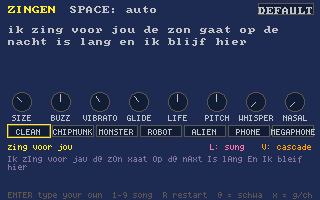
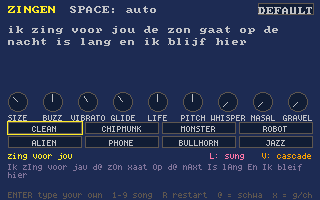
voice: GRAVEL (idx 21) and a sung scoop; zingen gets a GRAVEL knob and a JAZZ character
GRAVEL: every other glottal cycle weaker (diplophonia), occasional dropped
cycles, extra jitter, turbulence at each closure, level make-up; off = other
voice carts byte-identical. lyric.h: singer_gravel and Singer.scoop (a note
after a rest slides up into place). zingen: GRAVEL knob, a JAZZ character (low,
pressed, gravelly, slow wide late vibrato, scoop 2); characters in two rows.

Changed region(s): [[0.0, 0.45, 1.0, 0.9]]

diff --git a/tools/carts/zingen.c b/tools/carts/zingen.c
@@ -10,7 +10,7 @@
   "description": {
     "summary": "The formant voice sings in six languages, and whatever you type: Dutch (read by spelling rules: long and short vowels, schwa, ch/g, ui/ij/eu, final devoicing), Mipomi (the playtime Mipos' language), Japanese romaji, Spanish, Swahili and Hawaiian. One syllable per note, with voice knobs and one-tap characters (chipmunk, monster, robot, alien...).",
     "detail": "lyric.h reads the text into syllables; each note starts the next one: its consonants at note-on, the vowel held while the note is, then the diphthong's second half and the final consonants chained at release ('nacht' = x then t), before the note lets go. The melody is made from the words: a word's last syllable lasts longer, every fourth word breathes. Or play it yourself: every key press sings the next syllable. The bottom line shows the phonemes it read.",
-    "controls": "SPACE = auto-sing on/off · A S D F G H J K = sing the next syllable on that note · 1 2 3 = Dutch lyrics, 4 = a Mipomi lullaby, 5 Japanese, 6 Spanish, 7 Swahili, 8 Hawaiian, 9 = your words · ENTER = type your own line (TAB cycles Dutch, Mipomi, Japanese romaji, Spanish, Swahili, Hawaiian; an apostrophe is the okina), ENTER again to hear it sung (it is remembered) · V = formant model (Klatt cascade / parallel) · knobs: SIZE (giant .. child) · BUZZ (relaxed and round .. pressed and bright; also UP/DOWN) · VIBRATO · GLIDE · LIFE (a machine .. shaky) · PITCH (±12 semitones) · WHISPER (sung → whispered: no pitch, the words stay) · NASAL (open → hummed, through the nose) · characters (one tap): CLEAN, CHIPMUNK, MONSTER, ROBOT, ALIEN, PHONE, MEGAPHONE; each moves the knobs it needs and adds its own effects · DEFAULT = CLEAN · L = singer layer on/off (vibrato that blooms in, a living pitch, sung glides) · R = back to the start"
+    "controls": "SPACE = auto-sing on/off · A S D F G H J K = sing the next syllable on that note · 1 2 3 = Dutch lyrics, 4 = a Mipomi lullaby, 5 Japanese, 6 Spanish, 7 Swahili, 8 Hawaiian, 9 = your words · ENTER = type your own line (TAB cycles Dutch, Mipomi, Japanese romaji, Spanish, Swahili, Hawaiian; an apostrophe is the okina), ENTER again to hear it sung (it is remembered) · V = formant model (Klatt cascade / parallel) · knobs: SIZE (giant .. child) · BUZZ (relaxed and round .. pressed and bright; also UP/DOWN) · VIBRATO · GLIDE · LIFE (a machine .. shaky) · PITCH (±12 semitones) · WHISPER (sung → whispered: no pitch, the words stay) · NASAL (open → hummed, through the nose) · GRAVEL (clean → a rasp) · characters (one tap): CLEAN, CHIPMUNK, MONSTER, ROBOT, ALIEN, PHONE, BULLHORN, JAZZ (a gravelly jazz singer that scoops into notes); each moves the knobs it needs and adds its own effects · DEFAULT = CLEAN · L = singer layer on/off (vibrato that blooms in, a living pitch, sung glides) · R = back to the start"
   }
 }
 de:meta */
@@ -84,12 +84,14 @@ static int casc = 1;                 // V: the voice's formant model, 1 = Klatt 
 static int sung = 1;                 // L: the singer layer (delayed vibrato, jitter/shimmer, legato glides) on/off, to A/B
 
 // THE VOICE KNOBS (0..1 each; DEFAULT puts them all back). Each maps onto one Singer setting.
-enum { K_SIZE, K_BUZZ, K_VIB, K_GLIDE, K_LIFE, K_PITCH, K_WHISPER, K_NASAL, K_COUNT };
-static const char *K_NAME[K_COUNT] = { "SIZE", "BUZZ", "VIBRATO", "GLIDE", "LIFE", "PITCH", "WHISPER", "NASAL" };
-static const float K_DEF[K_COUNT]  = { 0.33f, 0.5f, 0.375f, 0.35f, 0.5f, 0.5f, 0.0f, 0.0f };
+enum { K_SIZE, K_BUZZ, K_VIB, K_GLIDE, K_LIFE, K_PITCH, K_WHISPER, K_NASAL, K_GRAVEL, K_COUNT };
+static const char *K_NAME[K_COUNT] = { "SIZE", "BUZZ", "VIBRATO", "GLIDE", "LIFE", "PITCH", "WHISPER", "NASAL", "GRAVEL" };
+static const float K_DEF[K_COUNT]  = { 0.33f, 0.5f, 0.375f, 0.35f, 0.5f, 0.5f, 0.0f, 0.0f, 0.0f };
 static float kv[K_COUNT];
 static int transpose = 0;            // PITCH: semitones, -12 .. +12
 static float vib_hz = 5.5f;          // vibrato rate (a character sets it; no knob)
+static float vib_delay = 0.25f;      // how long a note stays straight before its vibrato blooms (a character sets it)
+static int scoop_st = 0;             // a character's scoop: notes after a rest slide up into place from this far below
 
 static void apply_voice(void) {
     singer_size(&sing, kv[K_SIZE]);                       // vocal tract: 0 giant .. 1 child
@@ -101,6 +103,9 @@ static void apply_voice(void) {
     transpose   = (int)((kv[K_PITCH] - 0.5f) * 24.0f + (kv[K_PITCH] >= 0.5f ? 0.5f : -0.5f));
     singer_whisper(&sing, kv[K_WHISPER]);                 // sung .. breathy .. whispered (no pitch, the words stay)
     singer_nasal(&sing, kv[K_NASAL]);                     // open .. hummed, through the nose
+    singer_gravel(&sing, kv[K_GRAVEL]);                   // clean .. gravelly (uneven, doubled cycles + rasp)
+    sing.vib_delay = vib_delay;
+    sing.scoop  = sung ? scoop_st : 0;
 }
 
 // CHARACTERS: one tap turns the singer into someone else. Each sets the voice knobs (they move, so you
@@ -108,29 +113,33 @@ static void apply_voice(void) {
 // (set-and-hold: every effect call reconfigures DSP).
 typedef struct {
     const char *name;
-    float k[K_COUNT];                    // SIZE BUZZ VIBRATO GLIDE LIFE PITCH WHISPER NASAL
+    float k[K_COUNT];                    // SIZE BUZZ VIBRATO GLIDE LIFE PITCH WHISPER NASAL GRAVEL
     float vib_hz;
     int filt, cut, res;                  // instrument_filter
     float drive; int dmode;              // instrument_drive / _mode
     float ring_hz, ring_mix;             // instrument_ringmod
     float fl_rate, fl_depth, fl_fb, fl_mix;   // instrument_flanger
     float level;                         // instrument_level: evens the characters out (measured RMS vs CLEAN)
+    int scoop; float vib_delay;          // slide up into notes from this many semitones below; vibrato waits this long
 } Character;
 static const Character CHARS[] = {
     //            SIZE   BUZZ   VIB    GLIDE  LIFE   PITCH  WHISP NASAL   vib   filter               drive        ringmod       flanger
-    { "CLEAN",    { 0.33f, 0.50f, 0.375f,0.35f, 0.50f, 0.5f, 0.0f, 0.0f },   5.5f, FILTER_OFF, 1000, 0, 0.0f,  DRIVE_SOFT, 0, 0.0f,    0, 0, 0, 0.0f , 1.0f },
+    { "CLEAN",    { 0.33f, 0.50f, 0.375f,0.35f, 0.50f, 0.5f, 0.0f, 0.0f, 0.0f },   5.5f, FILTER_OFF, 1000, 0, 0.0f,  DRIVE_SOFT, 0, 0.0f,    0, 0, 0, 0.0f , 1.0f , 0, 0.25f },
     // pitched up an octave AND a small throat: the sped-up-tape cartoon
-    { "CHIPMUNK", { 0.95f, 0.60f, 0.25f, 0.50f, 0.50f, 1.0f, 0.0f, 0.2f },   7.0f, FILTER_OFF, 1000, 0, 0.0f,  DRIVE_SOFT, 0, 0.0f,    0, 0, 0, 0.0f , 0.32f },
+    { "CHIPMUNK", { 0.95f, 0.60f, 0.25f, 0.50f, 0.50f, 1.0f, 0.0f, 0.2f, 0.0f },   7.0f, FILTER_OFF, 1000, 0, 0.0f,  DRIVE_SOFT, 0, 0.0f,    0, 0, 0, 0.0f , 0.32f , 0, 0.25f },
     // down an octave, a giant's throat, pressed and rough, a little growl, the top shaved off
-    { "MONSTER",  { 0.00f, 0.95f, 0.15f, 0.40f, 0.90f, 0.0f, 0.15f, 0.0f },   4.0f, FILTER_LOW, 2500, 2, 0.40f, DRIVE_SOFT, 0, 0.0f,    0, 0, 0, 0.0f , 1.0f },
+    { "MONSTER",  { 0.00f, 0.95f, 0.15f, 0.40f, 0.90f, 0.0f, 0.15f, 0.0f, 0.5f },   4.0f, FILTER_LOW, 2500, 2, 0.40f, DRIVE_SOFT, 0, 0.0f,    0, 0, 0, 0.0f , 1.0f , 0, 0.25f },
     // dead flat (no vibrato, glide or life), pressed, ring-modulated at 55 Hz, a metallic flanger
-    { "ROBOT",    { 0.33f, 1.00f, 0.00f, 0.00f, 0.00f, 0.5f, 0.0f, 0.35f },   5.5f, FILTER_OFF, 1000, 0, 0.0f,  DRIVE_SOFT, 55, 0.75f,  0.1f, 0.2f, 0.6f, 0.4f , 1.0f },
+    { "ROBOT",    { 0.33f, 1.00f, 0.00f, 0.00f, 0.00f, 0.5f, 0.0f, 0.35f, 0.0f },   5.5f, FILTER_OFF, 1000, 0, 0.0f,  DRIVE_SOFT, 55, 0.75f,  0.1f, 0.2f, 0.6f, 0.4f , 1.0f , 0, 0.25f },
     // up a fourth, small, a deep fast warble, long glides, a high clangy ring, a swirling flanger
-    { "ALIEN",    { 0.80f, 0.70f, 1.00f, 1.00f, 0.50f, 0.708f, 0.1f, 0.5f }, 9.0f, FILTER_OFF, 1000, 0, 0.0f,  DRIVE_SOFT, 420, 0.35f, 2.0f, 0.7f, 0.5f, 0.4f , 0.7f },
+    { "ALIEN",    { 0.80f, 0.70f, 1.00f, 1.00f, 0.50f, 0.708f, 0.1f, 0.5f, 0.0f }, 9.0f, FILTER_OFF, 1000, 0, 0.0f,  DRIVE_SOFT, 420, 0.35f, 2.0f, 0.7f, 0.5f, 0.4f , 0.7f , 0, 0.25f },
     // a narrow band around 1.5 kHz (no lows, no highs) and a little hard grit: a cheap earpiece
-    { "PHONE",    { 0.40f, 0.60f, 0.375f,0.35f, 0.50f, 0.5f, 0.0f, 0.2f },   5.5f, FILTER_BAND, 1500, 5, 0.30f, DRIVE_HARD, 0, 0.0f,   0, 0, 0, 0.0f , 1.0f },
-    // a tighter, ringier band and a lot of hard clipping: a bullhorn
-    { "MEGAPHONE",{ 0.40f, 0.90f, 0.30f, 0.35f, 0.60f, 0.5f, 0.0f, 0.3f },   5.5f, FILTER_BAND, 1800, 9, 0.75f, DRIVE_HARD, 0, 0.0f,   0, 0, 0, 0.0f , 0.8f },
+    { "PHONE",    { 0.40f, 0.60f, 0.375f,0.35f, 0.50f, 0.5f, 0.0f, 0.2f, 0.0f },   5.5f, FILTER_BAND, 1500, 5, 0.30f, DRIVE_HARD, 0, 0.0f,   0, 0, 0, 0.0f , 1.0f , 0, 0.25f },
+    // a tighter, ringier band and a lot of hard clipping: a bullhorn (a megaphone)
+    { "BULLHORN", { 0.40f, 0.90f, 0.30f, 0.35f, 0.60f, 0.5f, 0.0f, 0.3f, 0.2f },   5.5f, FILTER_BAND, 1800, 9, 0.75f, DRIVE_HARD, 0, 0.0f,   0, 0, 0, 0.0f , 0.8f , 0, 0.25f },
+    // a gravelly old jazz singer: low, big and pressed, LOTS of gravel, a slow wide vibrato that waits
+    // for the end of the note, scoops up into notes from two below, a touch of warm drive
+    { "JAZZ",     { 0.12f, 0.85f, 0.85f, 0.55f, 0.60f, 0.375f, 0.08f, 0.15f, 0.85f }, 4.6f, FILTER_LOW, 6000, 1, 0.18f, DRIVE_SOFT, 0, 0.0f, 0, 0, 0, 0.0f, 1.0f, 2, 0.45f },
 };
 #define NCHARS ((int)(sizeof CHARS / sizeof CHARS[0]))
 static int who = 0;                      // the character picked
@@ -140,6 +149,8 @@ static void set_character(int c) {
     who = c;
     for (int k = 0; k < K_COUNT; k++) kv[k] = C->k[k];
     vib_hz = C->vib_hz;
+    vib_delay = C->vib_delay;
+    scoop_st = C->scoop;
     apply_voice();
     instrument_filter(SLOT, C->filt, C->cut, C->res);
     instrument_drive_mode(SLOT, C->dmode);
@@ -322,13 +333,13 @@ static void draw_knobs(void) {
         char lb[16];
         if (k == K_PITCH) snprintf(lb, sizeof lb, transpose ? "%+d" : "PITCH", transpose);
         else snprintf(lb, sizeof lb, "%s", K_NAME[k]);
-        changed |= ui_knob(&kv[k], 22 + k * 39, ky, lb);
+        changed |= ui_knob(&kv[k], 18 + k * 35, ky, lb);
     }
     if (changed) apply_voice();
     for (int c = 0; c < NCHARS; c++) {                    // the characters, one tap each
-        int bx = 8 + c * 44, by = 125;
-        if (ui_button(bx, by, 42, 12, CHARS[c].name)) set_character(c);
-        if (c == who) rect(bx - 1, by - 1, 44, 14, CLR_YELLOW);
+        int bx = 8 + (c % 4) * 77, by = 122 + (c / 4) * 14;   // two rows of four
+        if (ui_button(bx, by, 74, 12, CHARS[c].name)) set_character(c);
+        if (c == who) rect(bx - 1, by - 1, 76, 14, CLR_YELLOW);
     }
     font(FONT_NORMAL);
     if (ui_button(258, 3, 56, 12, "DEFAULT")) voice_defaults();
@@ -355,7 +366,7 @@ void draw(void) {
     if (!typing) draw_knobs();
     font(FONT_SMALL);
     // the phonemes it read (wrapped)
-    int px = 8, py = 156;
+    int px = 8, py = 164;
     char word[64]; int wn = 0;
     for (const char *p = phon; ; p++) {
         if (*p == ' ' || *p == 0) {
@@ -367,9 +378,9 @@ void draw(void) {
             if (!*p) break;
         } else if (wn < 63) word[wn++] = *p;
     }
-    print(SONGS[which].name, 8, 144, CLR_YELLOW);
-    print(sung ? "L: sung" : "L: plain", SCREEN_W - 110, 144, sung ? CLR_PINK : CLR_DARK_GREY);
-    { const char *m = casc ? "V: cascade" : "V: parallel"; print(m, SCREEN_W - 8 - text_width(m), 144, casc ? CLR_ORANGE : CLR_DARK_GREY); }
+    print(SONGS[which].name, 8, 153, CLR_YELLOW);
+    print(sung ? "L: sung" : "L: plain", SCREEN_W - 110, 153, sung ? CLR_PINK : CLR_DARK_GREY);
+    { const char *m = casc ? "V: cascade" : "V: parallel"; print(m, SCREEN_W - 8 - text_width(m), 153, casc ? CLR_ORANGE : CLR_DARK_GREY); }
     print("ENTER type your own  1-9 song  R restart  @ = schwa  x = g/ch", 8, SCREEN_H - 8, CLR_DARK_GREY);
     font(FONT_NORMAL);
     if (typing) draw_box();

diff --git a/runtime/sound.h b/runtime/sound.h
@@ -5294,6 +5294,11 @@ static inline float vox_burst_env(float dt) {
 #define VOX_F1_TRACK  1.0625f  // F1 never sits below F0 × this (sung high notes: F1 follows the pitch)
 #define VOX_CASC_GAIN 8.2f     // cascade mode: output gain after radiation (level-matched to the parallel path by ear/RMS)
 #define VOX_PRESENCE  5.0f     // cascade mode: presence-shelf depth at full EFFORT (pressed)
+#define VOX_GRAVEL_JIT   0.04f // gravel: extra per-period pitch jitter at full (±4 %)
+#define VOX_GRAVEL_ALT   0.55f // gravel: every other cycle this much weaker at full (the period-doubled growl)
+#define VOX_GRAVEL_DROP  0.18f // gravel: chance per period of a nearly dropped cycle at full
+#define VOX_GRAVEL_RASP  0.9f  // gravel: closure-noise (rasp) level at full
+#define VOX_GRAVEL_MAKEUP 0.6f // gravel: level make-up at full (the uneven cycles cost ~4 dB)
 #define VOX_WHISPER_CASC 0.75f  // whisper breath level into the cascade (level-matched to the sung voice)
 #define VOX_WHISPER_PAR  1.4f   // … and into the parallel formants
 #define VOX_NASAL_COLOR  0.35f // cascade: how far voice_nasal moves the nasal zero (a full m/n/ng moves it all the way)
@@ -5329,7 +5334,8 @@ static void sound_voice_start(Voice *v) {
                                     1.0f, 0.0f, 0.0f, 0.0f, 0.0f, 0.0f, 0.0f,      // buzz=full glottal · jitter/shimmer/creak/nasalAF/reduce/measBW off
                                     0.0f, 0.0f,                                    // vow2 target=U · glide off (no diphthong)
                                     0.0f,                                          // parallel formants (1 = Klatt cascade)
-                                    0.0f };                                        // whisper off (sung)
+                                    0.0f,                                          // whisper off (sung)
+                                    0.0f };                                        // gravel off (clean)
     for (int i = 0; i < VOX_NPARAM; i++) v->vox_p[i] = v->vox_s[i] = def[i];
     v->vox_glot_ph = v->vox_tilt_lp = v->vox_vib_ph = 0.0f;
     v->vox_jit_mul = v->vox_shim_mul = 1.0f; v->vox_creak_skip = 0;
@@ -5341,6 +5347,7 @@ static void sound_voice_start(Voice *v) {
     v->vox_br_lp1 = v->vox_br_lp2 = 0.0f;
     v->vox_rad_z = v->vox_pres_z = 0.0f;
     v->vox_nzp1 = v->vox_nzp2 = v->vox_nzz1 = v->vox_nzz2 = 0.0f;
+    v->vox_alt = 0; v->vox_rasp = 0.0f;
     v->vox_on = true;
     // the cart's instrument_harmonics/timbre/morph (VOWEL/SIZE/EFFORT), the ones it set, AFTER the
     // defaults above. (Until 2026-11-13 the setup-time apply ran BEFORE this reset, so the instrument
@@ -5377,6 +5384,7 @@ static inline float sound_voice_sample(Voice *v, float pitch_mul) {
     float bwmode = v->vox_s[16];                 // 0 = derived bandwidths → 1 = navkit measured BW table
     float glide  = v->vox_s[18];                 // diphthong: 0 = primary vowel → 1 = fully at vow2
     float whisper= v->vox_s[20];                 // 0 sung → 1 whispered (the vocal folds stop; breath alone through the tract)
+    float gravel = v->vox_s[21];                 // 0 clean → 1 gravelly (uneven, doubled cycles + rasp at each closure)
 
     // vibrato → pitch (±~1 semitone at full depth)
     v->vox_vib_ph += vibr / SR; if (v->vox_vib_ph >= 1.0f) v->vox_vib_ph -= 1.0f;
@@ -5511,6 +5519,20 @@ static inline float sound_voice_sample(Voice *v, float pitch_mul) {
         v->vox_jit_mul    = 1.0f + r1 * jitter * 0.055f;                // ±5.5% pitch at full
         v->vox_shim_mul   = 1.0f - r2 * shimmer * 0.6f;                 // amplitude dips
         v->vox_creak_skip = (creak > 0.01f && r2 < creak * 0.55f);      // weak/dropped cycle
+        // GRAVEL (idx 21): folds that do not vibrate cleanly. Every other cycle weaker (diplophonia:
+        // the period-doubled growl an octave down), now and then one nearly dropped, extra pitch
+        // jitter, and a burst of turbulence noise at each closure (the rasp), its size drawn per
+        // cycle. Extra random draws only when gravel is on, so a clean voice stays byte-identical.
+        if (gravel > 0.0001f) {
+            float g1 = voice_white(v);
+            v->noise_state = (v->noise_state * 1103515245 + 12345) & 0x7fffffff;
+            float g2 = ((v->noise_state >> 16) & 0xff) / 255.0f;
+            v->vox_alt = !v->vox_alt;
+            v->vox_jit_mul  *= 1.0f + g1 * gravel * VOX_GRAVEL_JIT;
+            if (v->vox_alt) v->vox_shim_mul *= 1.0f - gravel * VOX_GRAVEL_ALT;
+            if (g2 < gravel * VOX_GRAVEL_DROP) v->vox_shim_mul *= 0.25f;
+            v->vox_rasp = gravel * (0.4f + 0.6f * g2);
+        } else v->vox_rasp = 0.0f;
     }
     float t = v->vox_glot_ph, gp;
     int casc = v->vox_p[19] >= 0.5f;                 // the Klatt-cascade model (its own source + tract, below)
@@ -5572,6 +5594,11 @@ static inline float sound_voice_sample(Voice *v, float pitch_mul) {
     // pitch goes. Level-matched per model (VOX_WHISPER_*). 0 = untouched (the branch is skipped).
     if (whisper > 0.0001f)
         vsrc = vsrc * (1.0f - whisper) + nz * whisper * (casc ? VOX_WHISPER_CASC : VOX_WHISPER_PAR);
+    if (v->vox_rasp > 0.0f) {                         // GRAVEL rasp: turbulence right after each closure, decaying over the closed phase
+        float since = t - te;
+        float env = since >= 0.0f ? 1.0f - since / (1.0f - te + 1e-4f) : 0.15f;
+        vsrc += nz * v->vox_rasp * env * gl_gain * VOX_GRAVEL_RASP;
+    }
     float cn = cnz * con_noise;                                            // consonant noise, already placed
     src = vsrc + cn;
 
@@ -5657,6 +5684,7 @@ static inline float sound_voice_sample(Voice *v, float pitch_mul) {
         float notched = v->vox_naf_low + high;       // notch = low + high (the band removed)
         out = out * (1.0f - nasalAf) + notched * nasalAf;
     }
+    if (gravel > 0.0001f) out *= 1.0f + gravel * VOX_GRAVEL_MAKEUP;   // give back what the weak/dropped cycles take
     return out * 0.8f * v->vox_shim_mul;              // shimmer: per-period amplitude wobble
 }
 

diff --git a/runtime/lyric.h b/runtime/lyric.h
@@ -658,6 +658,8 @@ typedef struct {
     float size;                  // vocal-tract SIZE 0 giant .. 1 child (engine idx 1, its own default 0.33); < 0 (default) = leave it. singer_size()
     float whisper;               // 0 sung .. 1 whispered (engine idx 20: the voicing fades, breath alone). singer_whisper()
     float nasal;                 // 0 open .. 1 hummed, through the nose (voice_nasal). singer_nasal()
+    float gravel;                // 0 clean .. 1 gravelly (engine idx 21: uneven, doubled cycles + rasp). singer_gravel()
+    int scoop;                   // a note after a rest starts this many semitones LOW and slides up into it (0 = lands on it)
     float buzz;                  // EFFORT / BUZZ 0 relaxed, round .. 1 pressed, bright (breath + open quotient + tilt);
                                  // < 0 (the default) = leave the engine's own. Set with singer_buzz().
     // THE SINGER LAYER (after JIANT FM's, ideas only): what makes a voice sound sung, not played.
@@ -696,6 +698,10 @@ static void singer__buzz_poke(int h, float e) {
 static void singer_whisper(Singer *s, float x) {
     s->whisper = x < 0.0f ? 0.0f : x > 1.0f ? 1.0f : x;
     if (s->h) note_aux(s->h, 20, s->whisper);
+}
+static void singer_gravel(Singer *s, float x) {
+    s->gravel = x < 0.0f ? 0.0f : x > 1.0f ? 1.0f : x;
+    if (s->h) note_aux(s->h, 21, s->gravel);
 }
 static void singer_nasal(Singer *s, float x) {
     s->nasal = x < 0.0f ? 0.0f : x > 1.0f ? 1.0f : x;
@@ -774,15 +780,20 @@ static int singer_on(Singer *s, int midi, int vol) {
     // slide to ours, the way a voice moves between notes; a note after a rest just starts
     int from = s->last_midi;
     int slide = s->glide > 0.0f && from > 0 && from != midi && s->last_end >= 0.0f && s->t - s->last_end < LYR__LEGATO_S;
-    int h = note_on(slide ? from : midi, s->slot, vol);
+    // a SCOOP (no legato slide to make): start a few semitones under the note and slide up into it,
+    // the jazz singer's way in
+    int scoop = !slide && s->scoop > 0;
+    int start = slide ? from : scoop ? midi - s->scoop : midi;
+    int h = note_on(start, s->slot, vol);
     if (h <= 0) return 0;
     s->h = h; s->cur = i;
     s->on_t0 = s->t; s->last_midi = midi;
-    s->gliding = slide;
-    if (slide) {
-        int d = midi > from ? midi - from : from - midi;
-        s->g_from = (float)from; s->g_to = (float)midi;
-        s->g_len = s->glide * (1.0f + 0.06f * (float)d);  // a wider leap takes a little longer
+    s->gliding = slide || scoop;
+    if (s->gliding) {
+        int d = midi > start ? midi - start : start - midi;
+        s->g_from = (float)start; s->g_to = (float)midi;
+        s->g_len = slide ? s->glide * (1.0f + 0.06f * (float)d)   // a wider leap takes a little longer
+                         : 0.09f + 0.025f * (float)d;             // a scoop: quick, a little longer from further down
         note_glide(h, 16);                                // each frame's pitch step slides over a frame: no staircase
     }
     note_aux(h, 5, 0.0f);                                 // vibrato: none yet (singer_update blooms it)
@@ -798,6 +809,7 @@ static int singer_on(Singer *s, int midi, int vol) {
     if (s->buzz >= 0.0f) singer__buzz_poke(h, s->buzz);
     if (s->size >= 0.0f) note_aux(h, 1, s->size);
     if (s->whisper > 0.0f) note_aux(h, 20, s->whisper);
+    if (s->gravel > 0.0f) note_aux(h, 21, s->gravel);
     if (s->nasal > 0.0f) voice_nasal(h, s->nasal);
     lyr__place(h, s->base, vf[0], vf[1]);
     voice_coda(h, -1);

diff --git a/runtime/sound_ctx.h b/runtime/sound_ctx.h
@@ -304,6 +304,8 @@ typedef struct {
     float  vox_rad_z;                // cascade mode: lip-radiation first-difference state (previous cascade output)
     float  vox_pres_z;               // cascade mode: presence-shelf state (previous radiated sample)
     float  vox_nzp1, vox_nzp2, vox_nzz1, vox_nzz2; // cascade mode: nasal pole (outputs) / zero (inputs) states
+    int    vox_alt;                  // GRAVEL: flips each glottal period (every other cycle weaker = the period-doubled rasp)
+    float  vox_rasp;                 // GRAVEL: this period's closure-noise amount
     bool   vox_on;                  // note-on init guard (engine id hit without a start → silent)
     // guitar state (INSTR_GUITAR): the bodied plucked string — PLUCK's Karplus-Strong string
     // (REUSES ks_buf, distinct wave id from the bare pluck path) + 4 parallel body-resonator
@@ -900,7 +902,7 @@ typedef struct {
 } ShimVoice;
 #define FXMOD_N 7                                   // active targets: studio.h FXMOD_FILTER_CUT(0)..FXMOD_SHIMMER_MIX(6)
 #define VARI_BUF (SOUND_SAMPLE_RATE * 2)   // 2 s — room for a long dive before the read laps the write
-#define VOX_NPARAM 21   // 0 vowel·1 size·2 breath·3 openq·4 tilt·5 vibDepth·6 vibRate · 7 nasality·8 openness(F1)·9 frontness(F2) + EXPERIMENTAL 10 buzz·11 jitter·12 shimmer·13 creak·14 nasalAF·15 reduce·16 measBW·17 vow2(diphthong target 0..9)·18 glide(0=primary→1=at vow2) · 19 cascade (0 = 4 parallel formants, 1 = Klatt cascade F1→F4) · 20 whisper (0 sung → 1 voicing off, breath only)
+#define VOX_NPARAM 22   // 0 vowel·1 size·2 breath·3 openq·4 tilt·5 vibDepth·6 vibRate · 7 nasality·8 openness(F1)·9 frontness(F2) + EXPERIMENTAL 10 buzz·11 jitter·12 shimmer·13 creak·14 nasalAF·15 reduce·16 measBW·17 vow2(diphthong target 0..9)·18 glide(0=primary→1=at vow2) · 19 cascade (0 = 4 parallel formants, 1 = Klatt cascade F1→F4) · 20 whisper (0 sung → 1 voicing off, breath only) · 21 gravel (0 clean → 1 rasp: uneven/doubled cycles + closure noise)
 #define EMIT_DL_LEN  3072      // grain buffer per bus (~70ms @44100), stereo
 
 typedef struct {

diff --git a/docs/design/voice-engine.md b/docs/design/voice-engine.md
@@ -215,6 +215,16 @@ old-man rasp).
 
 ## Decision log
 
+- **2026-11-15** — **GRAVEL (idx 21)**, for a gravelly jazz voice. Folds that do not vibrate cleanly:
+  every other glottal cycle weaker (`VOX_GRAVEL_ALT`, diplophonia: the pitch detector locks an octave
+  down, as on a real rasp), a chance per cycle of a nearly dropped one (`VOX_GRAVEL_DROP`), extra
+  per-period jitter (`VOX_GRAVEL_JIT`), and turbulence noise at each closure decaying over the closed
+  phase (`VOX_GRAVEL_RASP`), with level make-up (`VOX_GRAVEL_MAKEUP`). Extra random draws only when on:
+  other voice carts render byte-identical. click-check flags the gravel's uneven cycles (by design).
+  lyric.h: `singer_gravel`, and a SCOOP (`Singer.scoop`: a note after a rest starts that many
+  semitones low and slides up in ~0.1 s). zingen: GRAVEL knob + a JAZZ character (low, pressed, gravel
+  0.85, slow wide late vibrato, scoop 2).
+
 - **2026-11-14** — **WHISPER (idx 20) and a level-honest nasal colour in the cascade.** WHISPER fades the
   voicing out and puts un-pulsed white breath through the same formants (`VOX_WHISPER_CASC` 0.75 /
   `VOX_WHISPER_PAR` 1.4, level-matched: full whisper ~2 dB under the sung voice in both models); the

diff --git a/docs/design/sung-lyrics.md b/docs/design/sung-lyrics.md
@@ -5,7 +5,7 @@ STATUS: BUILDING (2026-11-15) — `runtime/lyric.h` reads **Dutch** by spelling 
 (romaji), **Spanish**, **Swahili** and **Hawaiian**; the `zingen` cart is the demo (three Dutch lyrics, "Fala, Foni",
 a Mipomi lullaby on a written melody, one song in each new language) and runs
 `lyr_selfcheck()` (23 Dutch words, 3 Mipomi phrases, 17 Japanese/Spanish/Swahili/Hawaiian, `node tools/spec.js zingen`). Voice knobs in zingen (SIZE,
-BUZZ, VIBRATO, GLIDE, LIFE, PITCH, WHISPER, NASAL + DEFAULT, and one-tap CHARACTERS: CLEAN CHIPMUNK MONSTER ROBOT ALIEN PHONE MEGAPHONE, each = knob settings
+BUZZ, VIBRATO, GLIDE, LIFE, PITCH, WHISPER, NASAL, GRAVEL + DEFAULT, and one-tap CHARACTERS: CLEAN CHIPMUNK MONSTER ROBOT ALIEN PHONE BULLHORN JAZZ (gravel + a scoop into notes), each = knob settings
 + its own slot effects (filter, drive, ring mod, flanger) + a level that evens them out; `singer_size`/`singer_buzz` + the Singer fields). Type your own line
 in zingen (ENTER, TAB = Dutch/Mipomi, ENTER again: it sings it; remembered with `save_bytes`).
 
